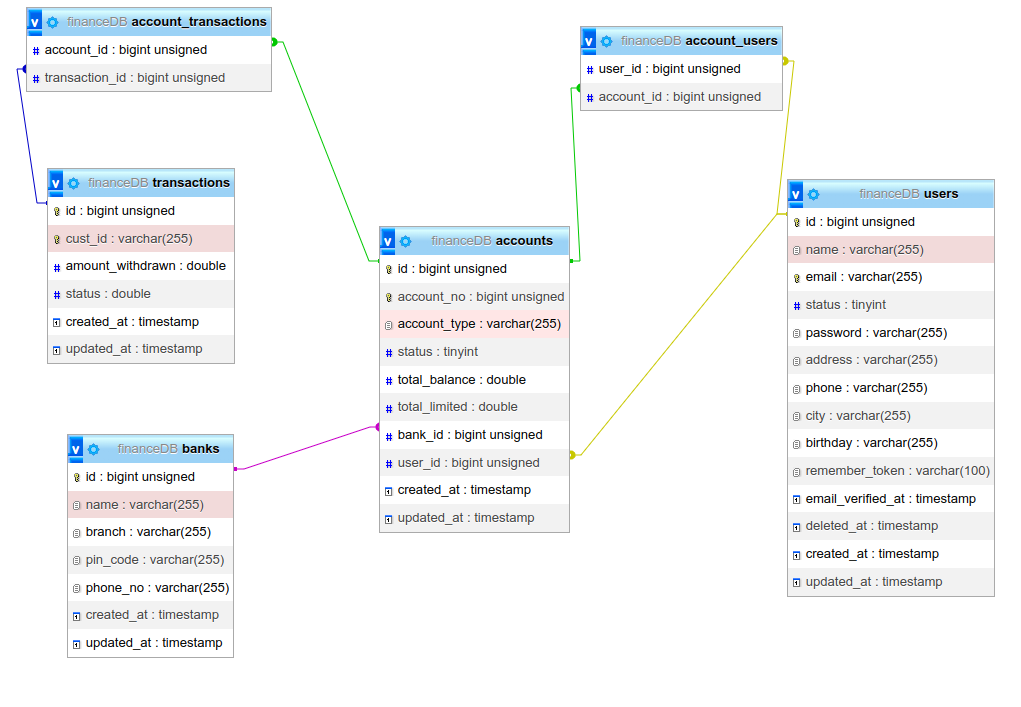
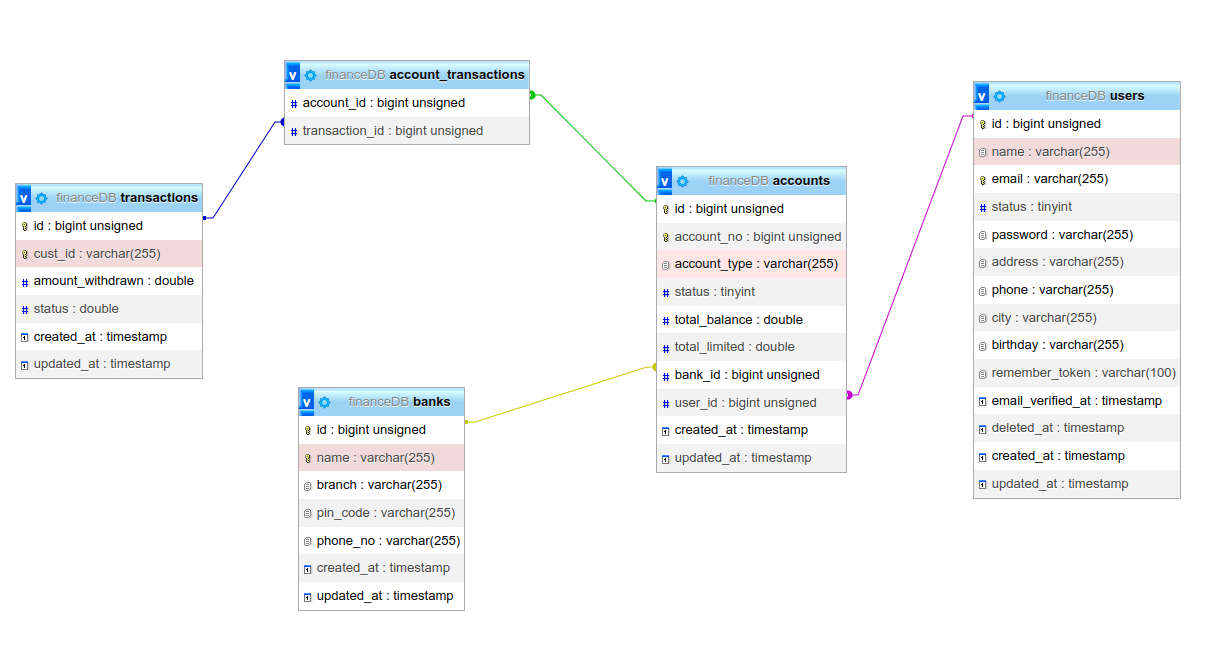
fixed transactions pivit with accounts table

diff --git a/database/seeders/DatabaseSeeder.php b/database/seeders/DatabaseSeeder.php
@@ -26,28 +26,74 @@ class DatabaseSeeder extends Seeder
         DB::table('users')->insert([
             "name" =>  "Arisha  Barron",
             'email' => 'Arisha@gmail.com',
+            "address" =>  "khoye behesht",
+            "city" =>  "khoy",
+            "phone" =>  "09143612440",
+            "birthday" =>  "13526425",
             'password' => Hash::make('123456'),
         ]);
         DB::table('users')->insert([
             "name" =>  "Branden  Gibson",
             'email' => 'Branden@gmail.com',
+            "address" =>  "khoye behesht",
+            "city" =>  "khoy",
+            "phone" =>  "09143612440",
+            "birthday" =>  "13526425",
             'password' => Hash::make('123457'),
         ]);
         DB::table('users')->insert([
             "name" =>  "Rhonda  Church",
             'email' => 'Rhonda@gmail.com',
+            "address" =>  "khoye behesht",
+            "phone" =>  "09143612440",
+            "city" =>  "khoy",
+            "birthday" =>  "13526425",
             'password' => Hash::make('123458'),
         ]);
         DB::table('users')->insert([
             "name" =>  "Georgina  Hazel",
             'email' => 'Georgina@gmail.com',
+            "address" =>  "khoye behesht",
+            "phone" =>  "09143612440",
+            "city" =>  "khoy",
+            "birthday" =>  "13526425",
             'password' => Hash::make('123459'),
         ]);
         DB::table('users')->insert([
             "name" =>  "admin",
             'email' => 'admin@gmail.com',
+            "address" =>  "khoye behesht",
+            "phone" =>  "09143612440",
+            "city" =>  "khoy",
+            "birthday" =>  "13526425",
             'password' => Hash::make('123123'),
             'status' => 1,
         ]);
+
+        DB::table('banks')->insert([
+            "name" =>  "visa",
+            "branch" =>  "visa",
+            'pin_code' => 'sad56sad',
+            'phone_no' => '0321318564',
+        ]);
+        DB::table('accounts')->insert([
+            "account_no" =>  "432464263544",
+            'account_type' => 'type 1',
+            'status' => 1,
+            'total_balance' => 1,
+            'total_limited' => 1,
+            'bank_id' => 1,
+            'user_id' => 1,
+        ]);
+        DB::table('accounts')->insert([
+            "account_no" =>  "432464263546",
+            'account_type' => 'type 1',
+            'status' => 1,
+            'total_balance' => 1000000,
+            'total_limited' => 1000,
+            'bank_id' => 1,
+            'user_id' => 2,
+        ]);
+
     }
 }

diff --git a/app/Repositories/Eloquent/TransactionRepository.php b/app/Repositories/Eloquent/TransactionRepository.php
@@ -1,0 +1,70 @@
+<?php
+
+namespace App\Repositories\Eloquent;
+
+use App\Models\Transaction;
+use Illuminate\Support\Facades\Validator;
+
+class TransactionRepository implements \App\Repositories\TransactionInterface
+{
+
+    private $user;
+
+    public function __construct(UserRepository $user)
+    {
+        $this->user = $user;
+    }
+
+    public function create($data)
+    {
+        $inputs = $data->only([ 'amount', 'status','user_id']);
+
+        $rules=array(
+            'user_id' =>"required",
+            'amount' =>"required",
+            'status' =>"required",
+        );
+        $validator=Validator::make($data->all(),$rules);
+        if($validator->fails()){
+            $data = $validator->errors();
+            $responce = [
+                'data' => $data,
+                'message' => 'error created transfer',
+                'statusCode' => 422,
+            ];
+            return  $responce;
+        }
+        else {
+
+           $user =  $this->user->find($inputs['user_id']);
+
+            $transfer = new Transaction();
+            $transfer->amount =$inputs['amount'] ;
+            $transfer->cust_id = Transaction::generateTransactonCUST();
+
+            if ($user['data'])
+                $transfer->status = 'Yes';
+
+            else
+                $transfer->status = 'No';
+            $transfer->save();
+
+
+            if ($user['data'])
+            $transfer->accounts()->sync($inputs['user_id']);
+
+
+
+
+            $responce = [
+                'data' => $transfer,
+                'message' => 'transfer successfully created',
+                'statusCode' => 200,
+
+            ];
+            return  $responce;
+        }
+
+
+    }
+}

diff --git a/routes/api.php b/routes/api.php
@@ -2,7 +2,9 @@
 
 use App\Http\Controllers\Api\Admin\AccountController;
 use App\Http\Controllers\Api\Admin\BankController;
+use App\Http\Controllers\Api\Admin\TransactionController;
 use App\Http\Controllers\Api\Admin\UserController;
+use App\Models\Transaction;
 use Illuminate\Http\Request;
 use Illuminate\Support\Facades\Route;
 
@@ -29,3 +31,5 @@ Route::get('/banks',[BankController::class,'index']);
 Route::get('/bank/{id}',[BankController::class,'show']);
 Route::post('/bank/create',[BankController::class,'store']);
 Route::patch('/bank/update/{id}',[BankController::class,'update']);
+
+Route::post('/transfer/create',[TransactionController::class,'store']);

diff --git a/app/Models/Transaction.php b/app/Models/Transaction.php
@@ -8,4 +8,22 @@ use Illuminate\Database\Eloquent\Model;
 class Transaction extends Model
 {
     use HasFactory;
+    public static function generateTransactonCUST()
+    {
+        $number = mt_rand(1000, 9999999999);
+        if (Transaction::checkTransactonCUST($number)) {
+            return Transaction::generateTransactonCUST();
+        }
+        return (string)$number;
+    }
+    public static function checkTransactonCUST($number)
+    {
+        return Transaction::where('cust_id',$number)->exists();
+    }
+
+    public function accounts()
+    {
+        return $this->belongsToMany(Account::class);
+    }
+
 }

diff --git a/app/Http/Controllers/Api/Admin/TransactionController.php b/app/Http/Controllers/Api/Admin/TransactionController.php
@@ -1,0 +1,25 @@
+<?php
+
+namespace App\Http\Controllers\Api\Admin;
+
+use App\Http\Controllers\Controller;
+use App\Repositories\Eloquent\TransactionRepository;
+use Illuminate\Http\JsonResponse;
+use Illuminate\Http\Request;
+
+class TransactionController extends Controller
+{
+    private $transfer;
+
+    public function __construct(TransactionRepository $transfer)
+    {
+        $this->transfer = $transfer;
+    }
+
+    public function store(Request $request):JsonResponse
+    {
+        $data = $this->transfer->create($request);
+
+        return  response()->json($data ,$data['statusCode']);
+    }
+}

diff --git a/database/migrations/2022_07_12_201043_create_transactions_table.php b/database/migrations/2022_07_12_201043_create_transactions_table.php
@@ -16,8 +16,8 @@ return new class extends Migration
         Schema::create('transactions', function (Blueprint $table) {
             $table->id();
             $table->string('cust_id')->unique();
-            $table->double('amount_withdrawn');
-            $table->double('status');
+            $table->double('amount');
+            $table->string('status');
             $table->timestamps();
         });
     }

diff --git a/database/migrations/2022_07_12_203132_create_account_transaction_table.php b/database/migrations/2022_07_12_203132_create_account_transaction_table.php
@@ -13,7 +13,7 @@ return new class extends Migration
      */
     public function up()
     {
-        Schema::create('account_transactions', function (Blueprint $table) {
+        Schema::create('account_transaction', function (Blueprint $table) {
             $table->unsignedBigInteger('account_id');
             $table->foreign('account_id')->references('id')->on('accounts');
 

diff --git a/app/Models/Account.php b/app/Models/Account.php
@@ -21,6 +21,9 @@ class Account extends Model
     {
         return Account::where('account_no',$number)->exists();
     }
-
+    public function transfer()
+    {
+        return $this->belongsToMany(Transaction::class);
+    }
 
 }

diff --git a/app/Models/AccountTransaction.php b/app/Models/AccountTransaction.php
@@ -8,4 +8,6 @@ use Illuminate\Database\Eloquent\Model;
 class AccountTransaction extends Model
 {
     use HasFactory;
+
+    protected $table='account_transaction';
 }

diff --git a/app/Repositories/TransactionInterface.php b/app/Repositories/TransactionInterface.php
@@ -1,0 +1,8 @@
+<?php
+
+namespace App\Repositories;
+
+interface TransactionInterface
+{
+    public function create($data);
+}
